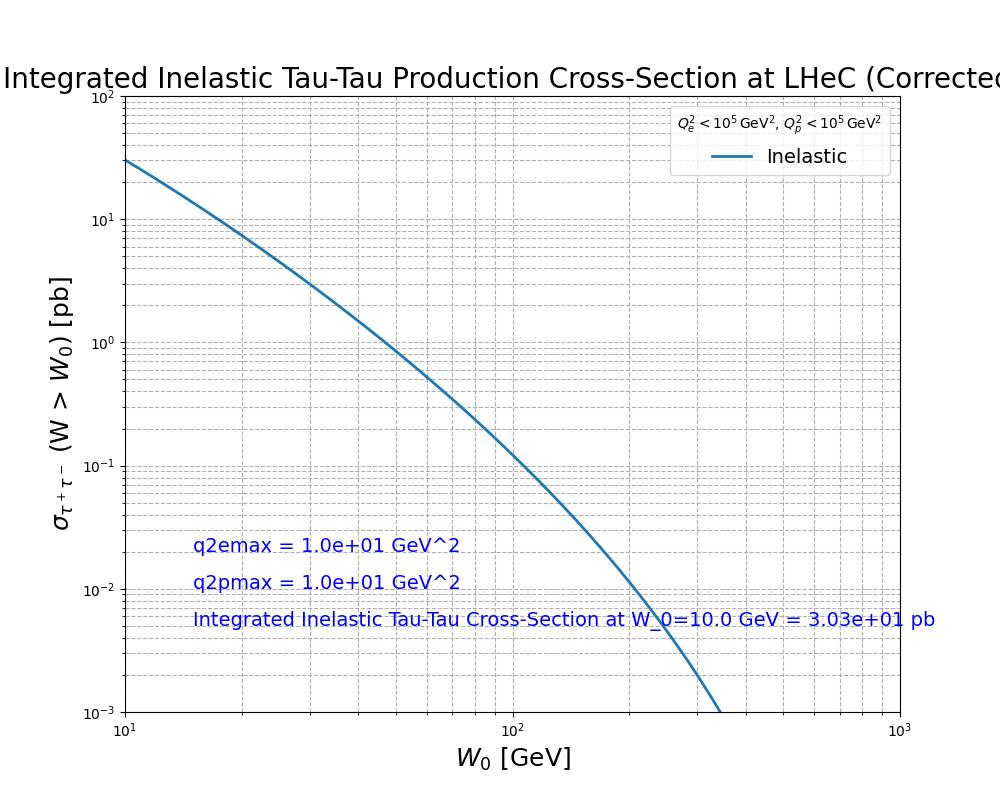
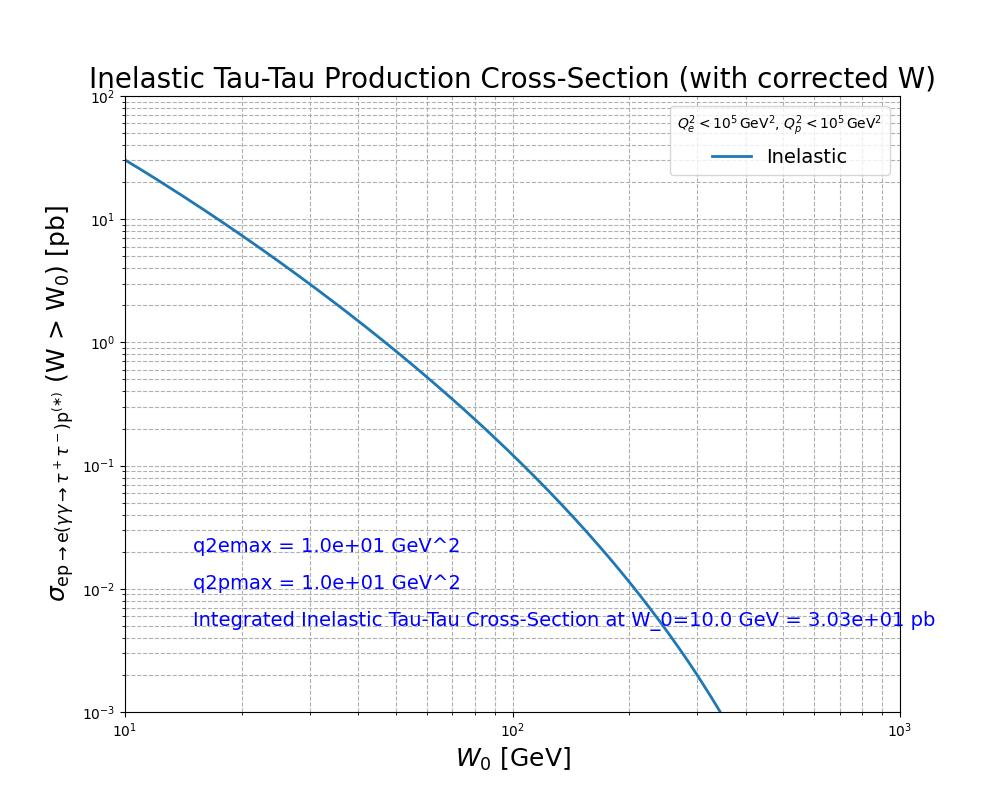
"inelastic" Photon Luminosity Spectrum Syy : using Vegas for the integration
"inelastic" Photon Luminosity Spectrum Syy : using Vegas for the integration

diff --git a/Tau-Tau_Production_Hamzeh_Jacobian_Krzysztof_Parall_Inelastic_Simple_Numerical.py b/Tau-Tau_Production_Hamzeh_Jacobian_Krzysztof_Parall_Inelastic_Simple_Numerical.py
@@ -89,9 +89,9 @@ if __name__ == "__main__":
     plt.text(15, 5.e-3, f'Integrated Inelastic Tau-Tau Cross-Section at W_0={W0_value} GeV = {integrated_cross_section_value:.2e} pb', fontsize=14, color='blue')
 
     plt.xlabel(r"$W_0$ [GeV]", fontsize=18)
-    plt.ylabel(r"$\sigma_{\tau^+\tau^-}$ (W > $W_0$) [pb]", fontsize=18)
+    plt.ylabel(r"$\sigma_{{\rm ep}\to {\rm e}(\gamma\gamma\to\tau^+\tau^-){\rm p}^{(\ast)}}$ (W > W$_0$) [pb]", fontsize=18)
 
-    plt.title("Integrated Inelastic Tau-Tau Production Cross-Section at LHeC (Corrected)", fontsize=20)
+    plt.title("Inelastic Tau-Tau Production Cross-Section (with corrected W)", fontsize=20)
     plt.grid(True, which="both", linestyle="--")
     plt.legend(title=r'$Q^2_e < 10^5 \, \mathrm{GeV}^2, \, Q^2_p < 10^5 \, \mathrm{GeV}^2$', fontsize=14)
 

diff --git a/Integrated_inelastic_tau_tau_cross_section_final_version_using_vegas.py b/Integrated_inelastic_tau_tau_cross_section_final_version_using_vegas.py
@@ -36,8 +36,8 @@ emass = 5.1099895e-4   # Electron mass in GeV
 pmass = 0.938272081    # Proton mass in GeV
 pi0mass = 0.1349768    # Pion mass in GeV
 
-q2emax = 100000.0  # Maximum photon virtuality for electron in GeV^2
-q2pmax = 100000.0  # Maximum photon virtuality for proton in GeV^2
+q2emax = 10.0  # Maximum photon virtuality for electron in GeV^2
+q2pmax = 10.0  # Maximum photon virtuality for proton in GeV^2
 MN_max = 10.0  # Maximum MN in GeV
 
 
